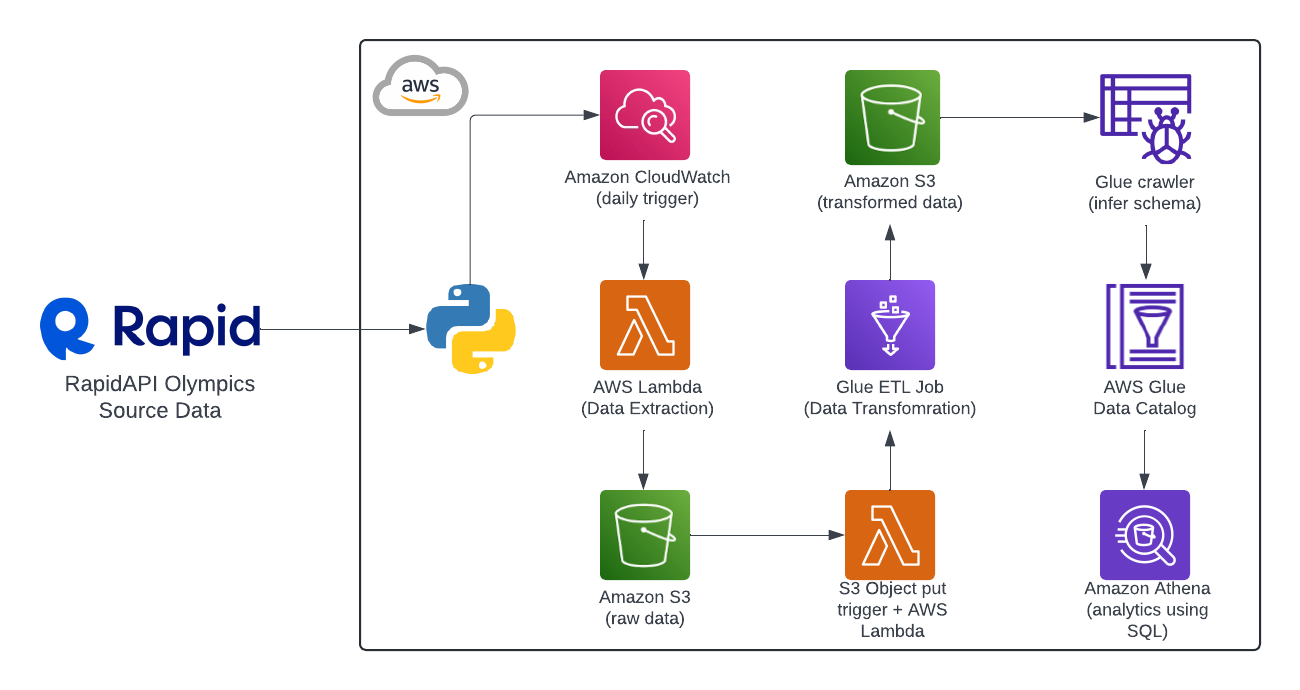
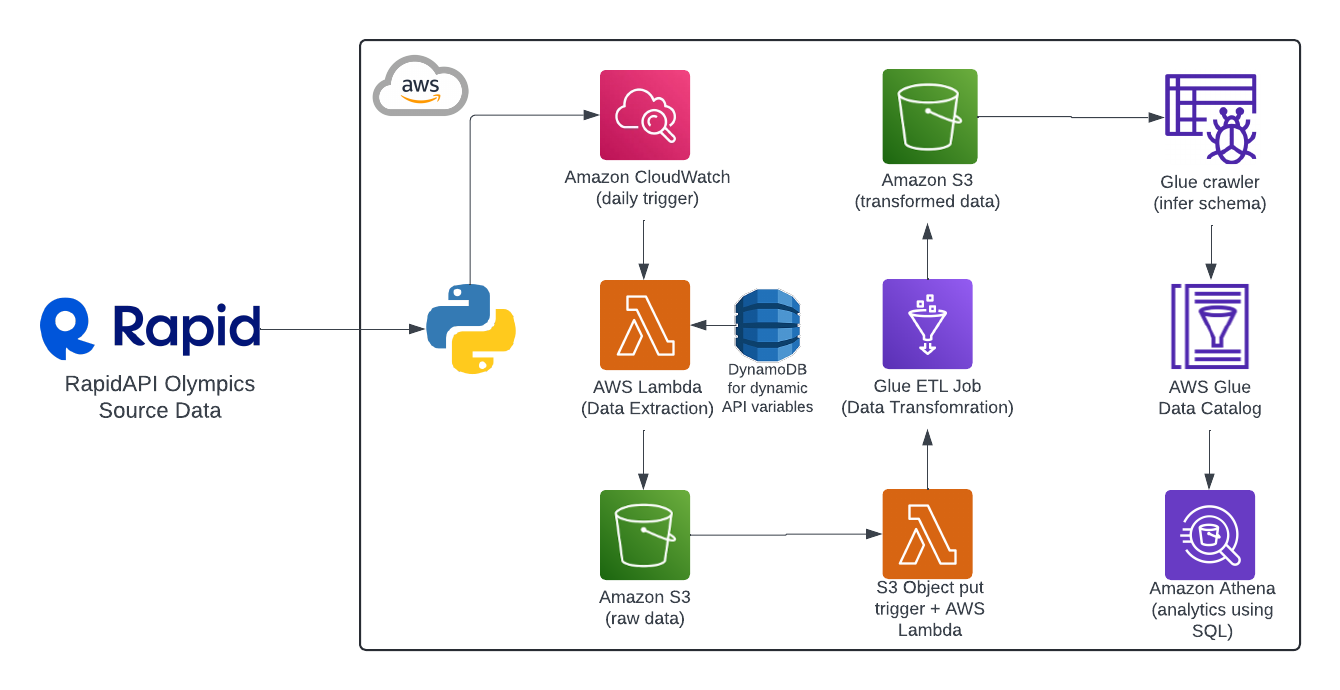
Updated project architecture diagram

diff --git a/README.md b/README.md
@@ -5,8 +5,9 @@ This is a Data Engineering project that models the Spotify API project mentioned
 
 ![Project architecture diagram](/project-architecture-diagram.png "Project architecture diagram")
 
-Instead of getting data from the Spotify API, the data will be from the Paris Olympics 2024 API: https://data.paris2024.org/api/explore/v2.1/console  
+Instead of getting data from the Spotify API like in the video, the data will be from the Paris Olympics 2024 API: https://data.paris2024.org/api/explore/v2.1/console  
 (however, since there's been 10 days (!) with no access to the official API Data, and I needed to finish this project due to a job application deadline RapidAPI was used instead: https://rapidapi.com/belchiorarkad-FqvHs2EDOtP/api/olympic-sports-api)  
+
 The AWS Services that will be used are S3, Lambda, AWS Glue, DynamoDB and Athena. The AWS Data Wrangler library will be used over pandas for the data transformation since we're working with AWS services. The pipeline can be fully automated to trigger daily with Amazon CloudWatch EventBridge and the provisioning of the resources can be automated with Terraform (not implemented in this first version of the project)  
 
 ## Journal
